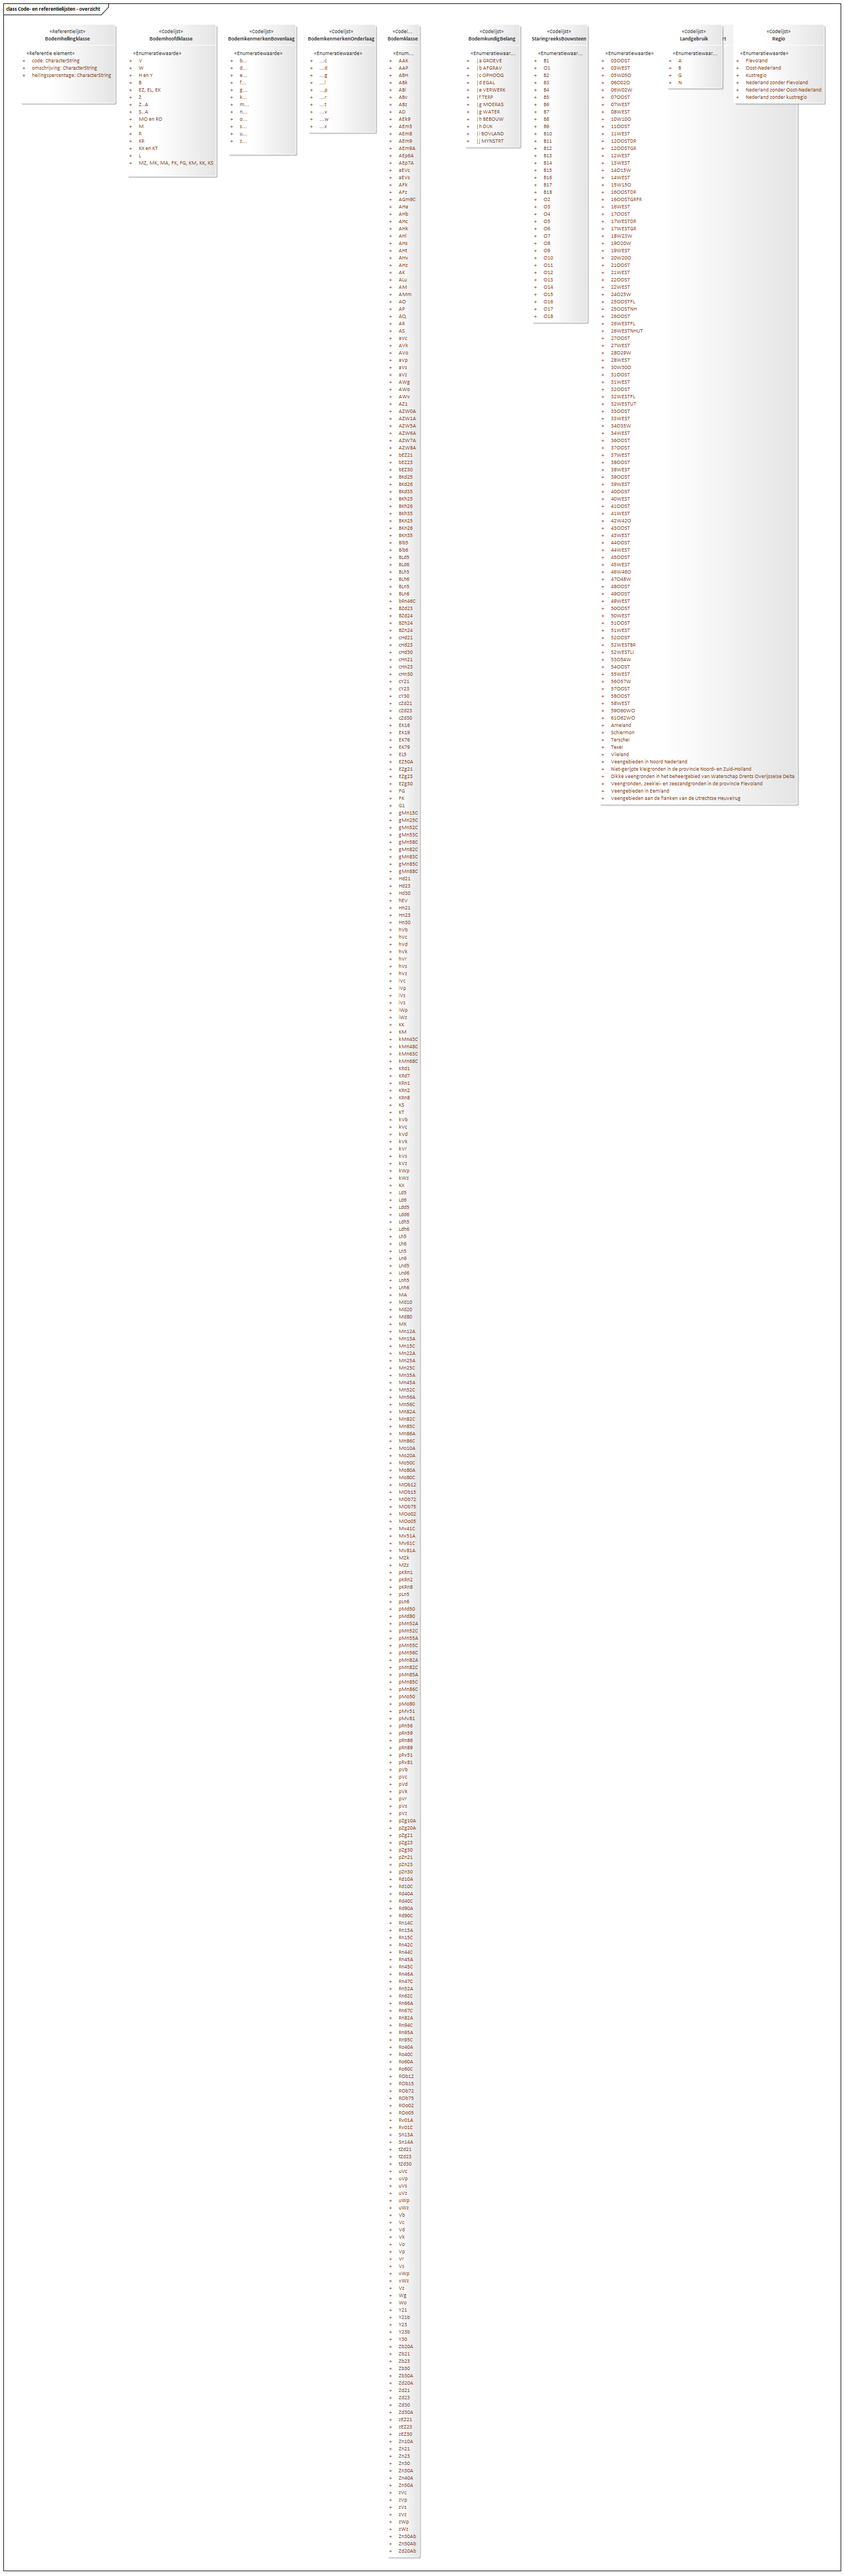
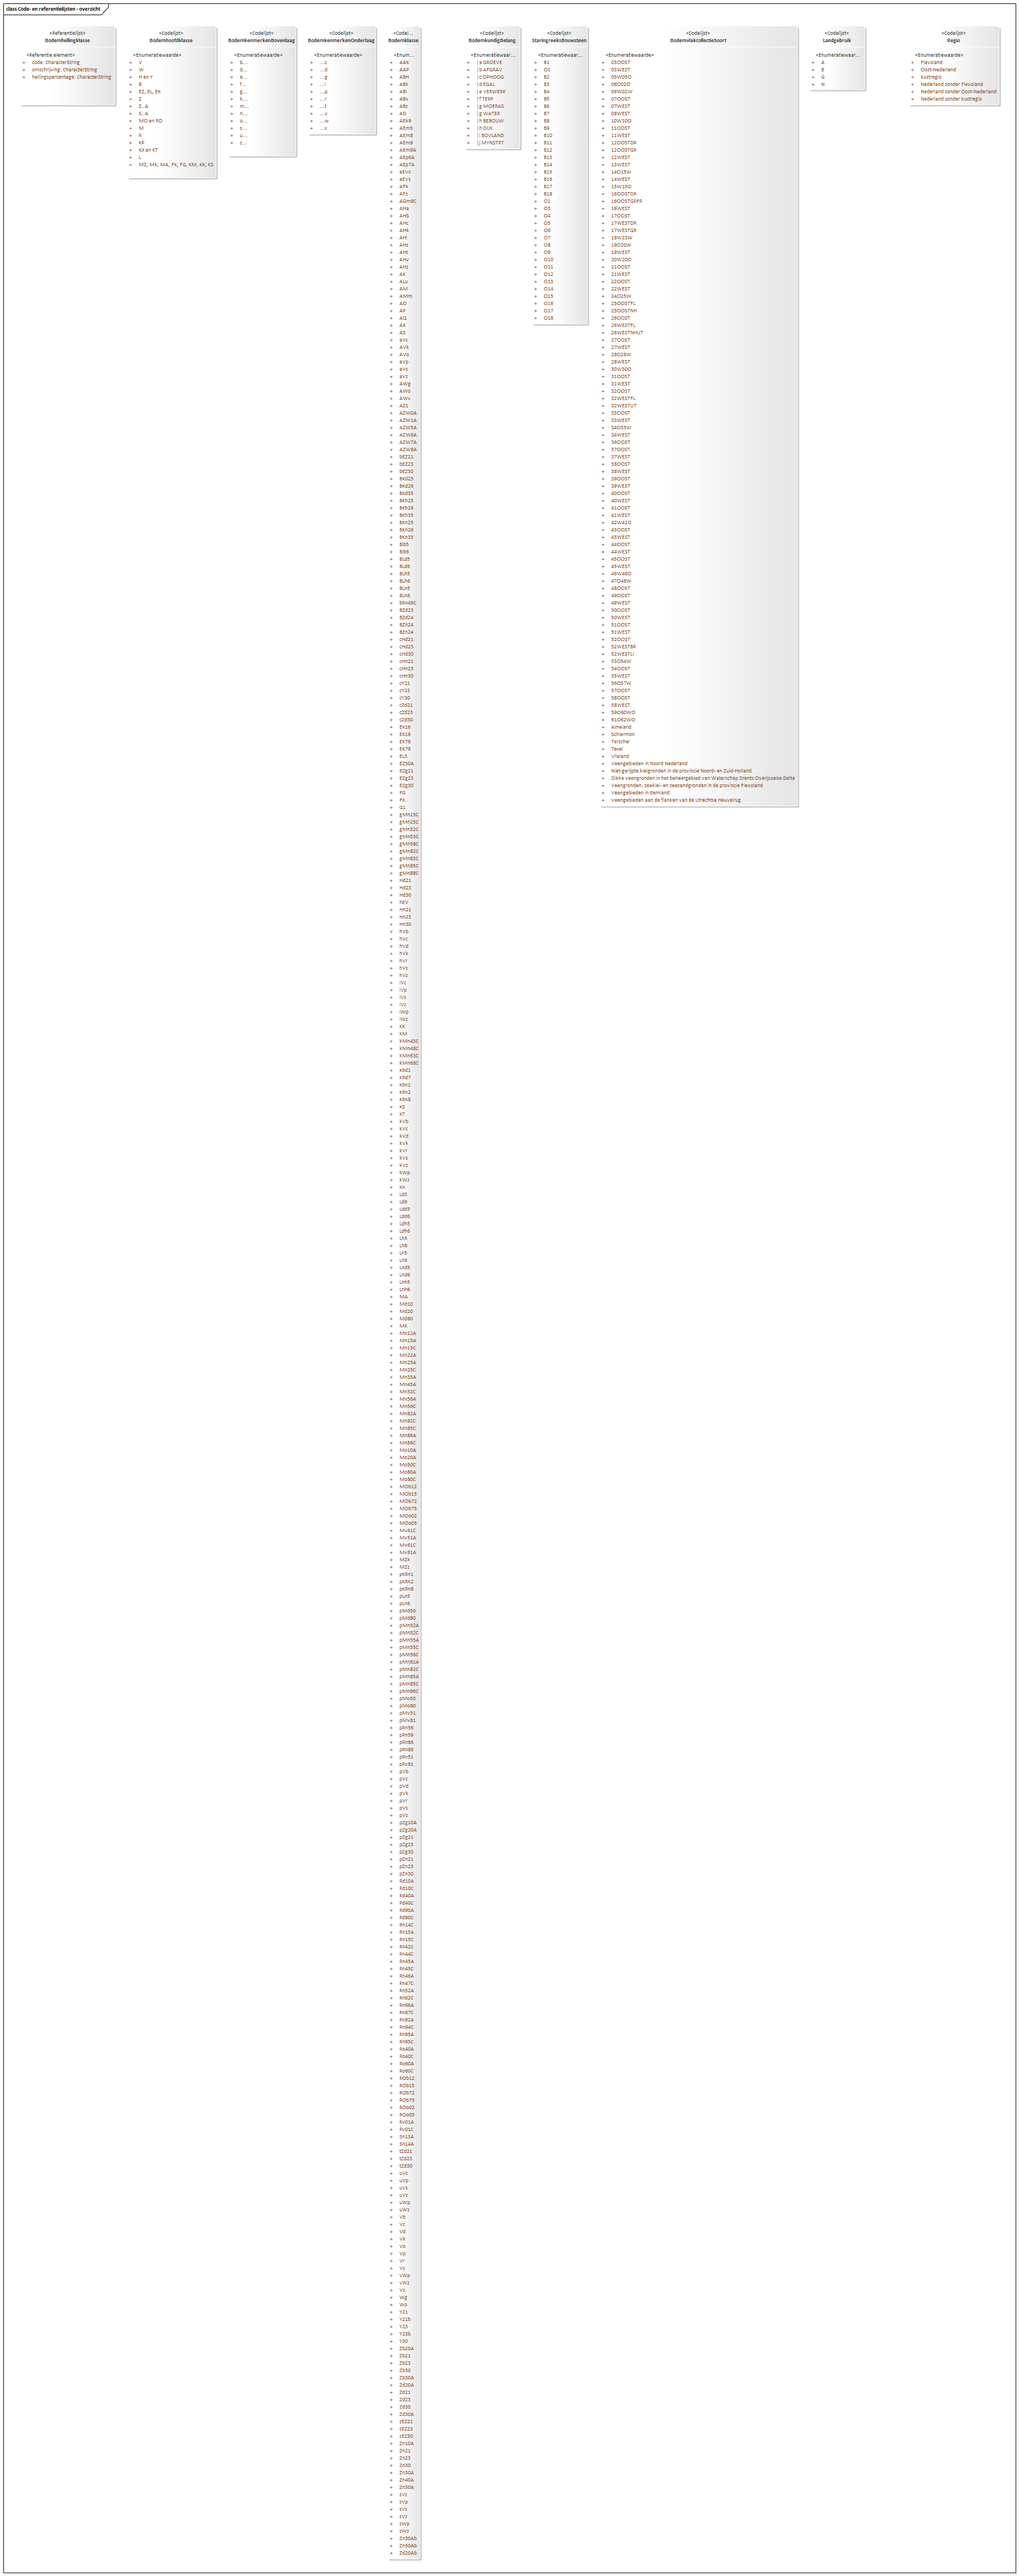
Conceptualmodel-Bodem-engrondwatertrappenkaartSGM-1.0-1-20181205-20200705-203840

diff --git a/data/SGM-cat.msword.html b/data/SGM-cat.msword.html
@@ -15,7 +15,7 @@
    <body>
       <p>Conceptual model/Bodem- en grondwatertrappenkaart (SGM)/20181205</p>
       <p>Imvertor: 1.60.1</p>
-      <p>Model release: Conceptualmodel-Bodem-engrondwatertrappenkaartSGM-1.0-1-20181205-20200705-203409</p>
+      <p>Model release: Conceptualmodel-Bodem-engrondwatertrappenkaartSGM-1.0-1-20181205-20200705-203840</p>
       <hr>
       <section>
          <h1>Artikel 1 Definitie van registratieobject, entiteiten en attributen</h1>
@@ -50,9 +50,9 @@
          <section>
             <h2>Het domeinmodel</h2>
             <section id="">
-               <div class="imageinfo overview"><img src="Images/EAID_6F1DEB4D_0857_407f_96D1_68CEB4BA18C6.png" usemap="#imagemap-EAID_6F1DEB4D_0857_407f_96D1_68CEB4BA18C6" alt="Diagram "><map name="imagemap-EAID_6F1DEB4D_0857_407f_96D1_68CEB4BA18C6"><area shape="rect" alt="Bodemvlakcollectie" coords="179,224,407,313" href="#graph_EAID_A52CE810_6926_44e0_B47D_79E461ECFE42"><area shape="rect" alt="Registratieobject" coords="670,46,834,174" href="#graph_EAID_93C35E9C_DB6B_4fad_AD2F_6D72CB028948"><area shape="rect" alt="FysischeBodemKenmerken" coords="179,1051,367,1257" href="#graph_EAID_7487B6E9_2821_4136_A6BD_45BCC55D08C4"><area shape="rect" alt="ChemischeBodemkenmerken" coords="187,836,415,1029" href="#graph_EAID_E7CD7773_A9F8_46e0_87D3_D98930256054"><area shape="rect" alt="Profiellaag" coords="662,707,882,758" href="#graph_EAID_9FA1F427_89ED_4c1a_ACE5_19CC4E4574CA"><area shape="rect" alt="Bodemlaag" coords="828,831,1049,923" href="#graph_EAID_D6147D13_A2CE_4eac_846C_D98CF51FC411"><area shape="rect" alt="Bodemhorizont" coords="459,832,726,967" href="#graph_EAID_51B920BD_F7BA_420b_8BC2_F95666441BBE"><area shape="rect" alt="Afgeleid profiel" coords="670,511,874,645" href="#graph_EAID_F7554868_9447_4c85_91F2_85A060A04221"><area shape="rect" alt="Bodemkaart" coords="637,221,867,303" href="#graph_EAID_5403E30C_F3F4_4c09_907F_D48BE501C19C"><area shape="rect" alt="Kaartvlak" coords="222,376,364,452" href="#graph_EAID_99801C7D_8272_47b8_8892_0FFAA25819DC"><area shape="rect" alt="Vlak van bodemkundig belang" coords="93,512,291,588" href="#graph_EAID_FFE7D8E2_A953_49c6_AB62_7366945DDAB6"><area shape="rect" alt="Bodemvlak" coords="340,512,537,644" href="#graph_EAID_1A0B021D_CECB_4888_896B_045EDB9287FB"><area shape="rect" alt="Bodemeenheid" coords="35,618,297,745" href="#graph_EAID_851EC4B0_D56E_4be9_A97B_2603C79F70A0"></map><p><b>Bodemkaart 1:50.000</b></p>
+               <div class="imageinfo overview"><img src="Images/EAID_6F1DEB4D_0857_407f_96D1_68CEB4BA18C6.png" usemap="#imagemap-EAID_6F1DEB4D_0857_407f_96D1_68CEB4BA18C6" alt="Diagram "><map name="imagemap-EAID_6F1DEB4D_0857_407f_96D1_68CEB4BA18C6"><area shape="rect" alt="Bodemvlakcollectie" coords="179,224,407,313" href="#graph_EAID_A52CE810_6926_44e0_B47D_79E461ECFE42"><area shape="rect" alt="Registratieobject" coords="670,46,834,174" href="#graph_EAID_93C35E9C_DB6B_4fad_AD2F_6D72CB028948"><area shape="rect" alt="FysischeBodemKenmerken" coords="179,1051,367,1257" href="#graph_EAID_7487B6E9_2821_4136_A6BD_45BCC55D08C4"><area shape="rect" alt="ChemischeBodemkenmerken" coords="187,836,415,1029" href="#graph_EAID_E7CD7773_A9F8_46e0_87D3_D98930256054"><area shape="rect" alt="Profiellaag" coords="662,707,882,758" href="#graph_EAID_9FA1F427_89ED_4c1a_ACE5_19CC4E4574CA"><area shape="rect" alt="Bodemlaag" coords="828,831,1049,923" href="#graph_EAID_D6147D13_A2CE_4eac_846C_D98CF51FC411"><area shape="rect" alt="Bodemhorizont" coords="459,832,726,967" href="#graph_EAID_51B920BD_F7BA_420b_8BC2_F95666441BBE"><area shape="rect" alt="Afgeleid profiel" coords="670,511,874,645" href="#graph_EAID_F7554868_9447_4c85_91F2_85A060A04221"><area shape="rect" alt="Bodemkaart" coords="637,221,867,303" href="#graph_EAID_5403E30C_F3F4_4c09_907F_D48BE501C19C"><area shape="rect" alt="Kaartvlak" coords="222,376,364,452" href="#graph_EAID_99801C7D_8272_47b8_8892_0FFAA25819DC"><area shape="rect" alt="Vlak van bodemkundig belang" coords="93,512,291,588" href="#graph_EAID_FFE7D8E2_A953_49c6_AB62_7366945DDAB6"><area shape="rect" alt="Bodemvlak" coords="331,512,528,644" href="#graph_EAID_1A0B021D_CECB_4888_896B_045EDB9287FB"><area shape="rect" alt="Bodemeenheid" coords="35,618,297,745" href="#graph_EAID_851EC4B0_D56E_4be9_A97B_2603C79F70A0"></map><p><b>Bodemkaart 1:50.000</b></p>
                </div>
-               <div class="imageinfo overview"><img src="Images/EAID_2793BB12_5218_46ab_B17A_9F4C5C392B77.png" usemap="#imagemap-EAID_2793BB12_5218_46ab_B17A_9F4C5C392B77" alt="Diagram "><map name="imagemap-EAID_2793BB12_5218_46ab_B17A_9F4C5C392B77"><area shape="rect" alt="Regio" coords="1306,43,1468,184" href="#graph_EAID_71DE2E29_F39A_485e_B124_80FF3FBCA181"><area shape="rect" alt="Landgebruik" coords="1186,43,1286,157" href="#graph_EAID_E6891C10_4381_49af_88F6_76AB00B3EC38"><area shape="rect" alt="BodemvlakcollectieSoort" coords="1066,43,1420,1432" href="#graph_EAID_5E3D75B5_CE9E_49f3_8210_6B864BF1D2C8"><area shape="rect" alt="StaringreeksBouwsteen" coords="946,43,1046,574" href="#graph_EAID_A917BA6F_0EC3_4fc7_80D5_2F204F61DA5A"><area shape="rect" alt="BodemkundigBelang" coords="826,43,926,262" href="#graph_EAID_803E52C2_E581_448f_A721_83925F3746D1"><area shape="rect" alt="Bodemklasse" coords="688,43,747,4552" href="#graph_EAID_56676ADB_C4F7_41a8_872A_B2198F6F6835"><area shape="rect" alt="BodemkenmerkenOnderlaag" coords="547,43,669,236" href="#graph_EAID_5463CF56_01BC_4f0c_88A7_11F479050C47"><area shape="rect" alt="BodemkenmerkenBovenlaag" coords="405,43,527,275" href="#graph_EAID_21FF9CA4_F85D_4d76_B3FC_6AD3B00C742C"></map><p><b>Code- en referentielijsten</b></p>
+               <div class="imageinfo overview"><img src="Images/EAID_2793BB12_5218_46ab_B17A_9F4C5C392B77.png" usemap="#imagemap-EAID_2793BB12_5218_46ab_B17A_9F4C5C392B77" alt="Diagram "><map name="imagemap-EAID_2793BB12_5218_46ab_B17A_9F4C5C392B77"><area shape="rect" alt="Regio" coords="1617,46,1779,187" href="#graph_EAID_71DE2E29_F39A_485e_B124_80FF3FBCA181"><area shape="rect" alt="Landgebruik" coords="1440,46,1540,160" href="#graph_EAID_E6891C10_4381_49af_88F6_76AB00B3EC38"><area shape="rect" alt="BodemvlakcollectieSoort" coords="1066,46,1420,1435" href="#graph_EAID_5E3D75B5_CE9E_49f3_8210_6B864BF1D2C8"><area shape="rect" alt="StaringreeksBouwsteen" coords="946,46,1046,577" href="#graph_EAID_A917BA6F_0EC3_4fc7_80D5_2F204F61DA5A"><area shape="rect" alt="BodemkundigBelang" coords="826,46,926,265" href="#graph_EAID_803E52C2_E581_448f_A721_83925F3746D1"><area shape="rect" alt="Bodemklasse" coords="689,46,748,4555" href="#graph_EAID_56676ADB_C4F7_41a8_872A_B2198F6F6835"><area shape="rect" alt="BodemkenmerkenOnderlaag" coords="547,46,669,239" href="#graph_EAID_5463CF56_01BC_4f0c_88A7_11F479050C47"><area shape="rect" alt="BodemkenmerkenBovenlaag" coords="405,46,527,278" href="#graph_EAID_21FF9CA4_F85D_4d76_B3FC_6AD3B00C742C"></map><p><b>Code- en referentielijsten</b></p>
                </div>
             </section>
          </section>
@@ -508,6 +508,13 @@
                            <tr>
                               <th>Type gegeven</th>
                               <td>Attribuut van Afgeleid profiel</td>
+                           </tr>
+                           <tr>
+                              <th>Definitie</th>
+                              <td>
+                                 
+                                 <p>Unieke aanduiding van een afgeleid profiel.</p>
+                                 </td>
                            </tr>
                            <tr>
                               <th>Juridische status</th>
